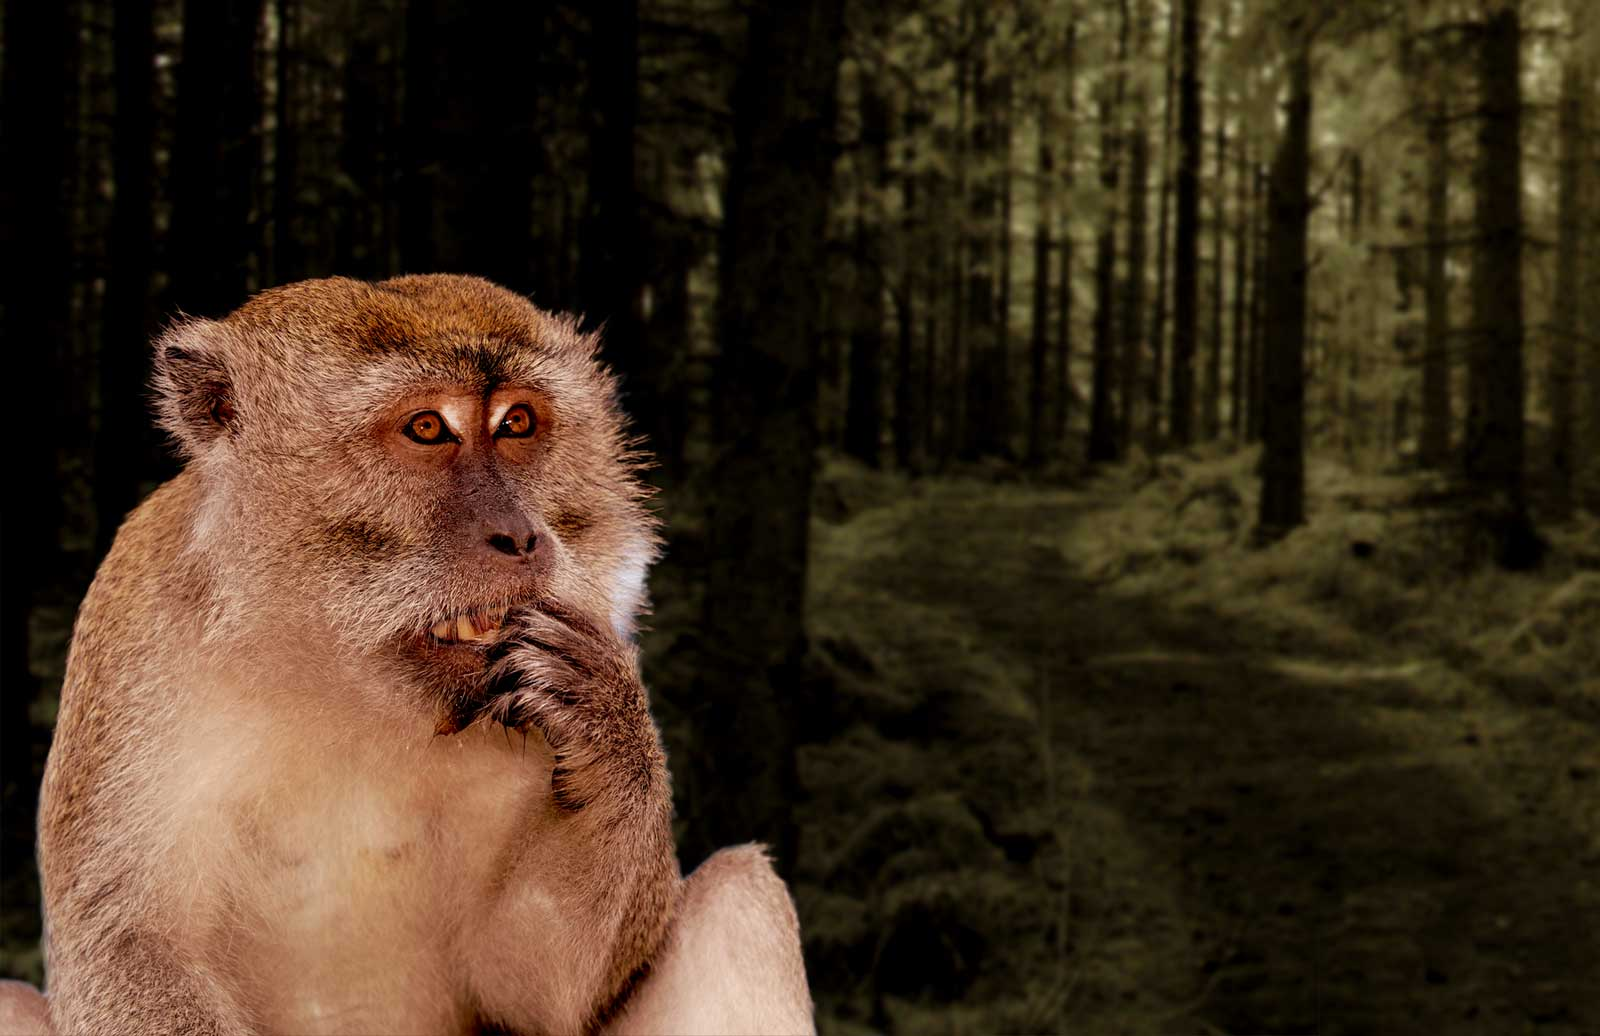
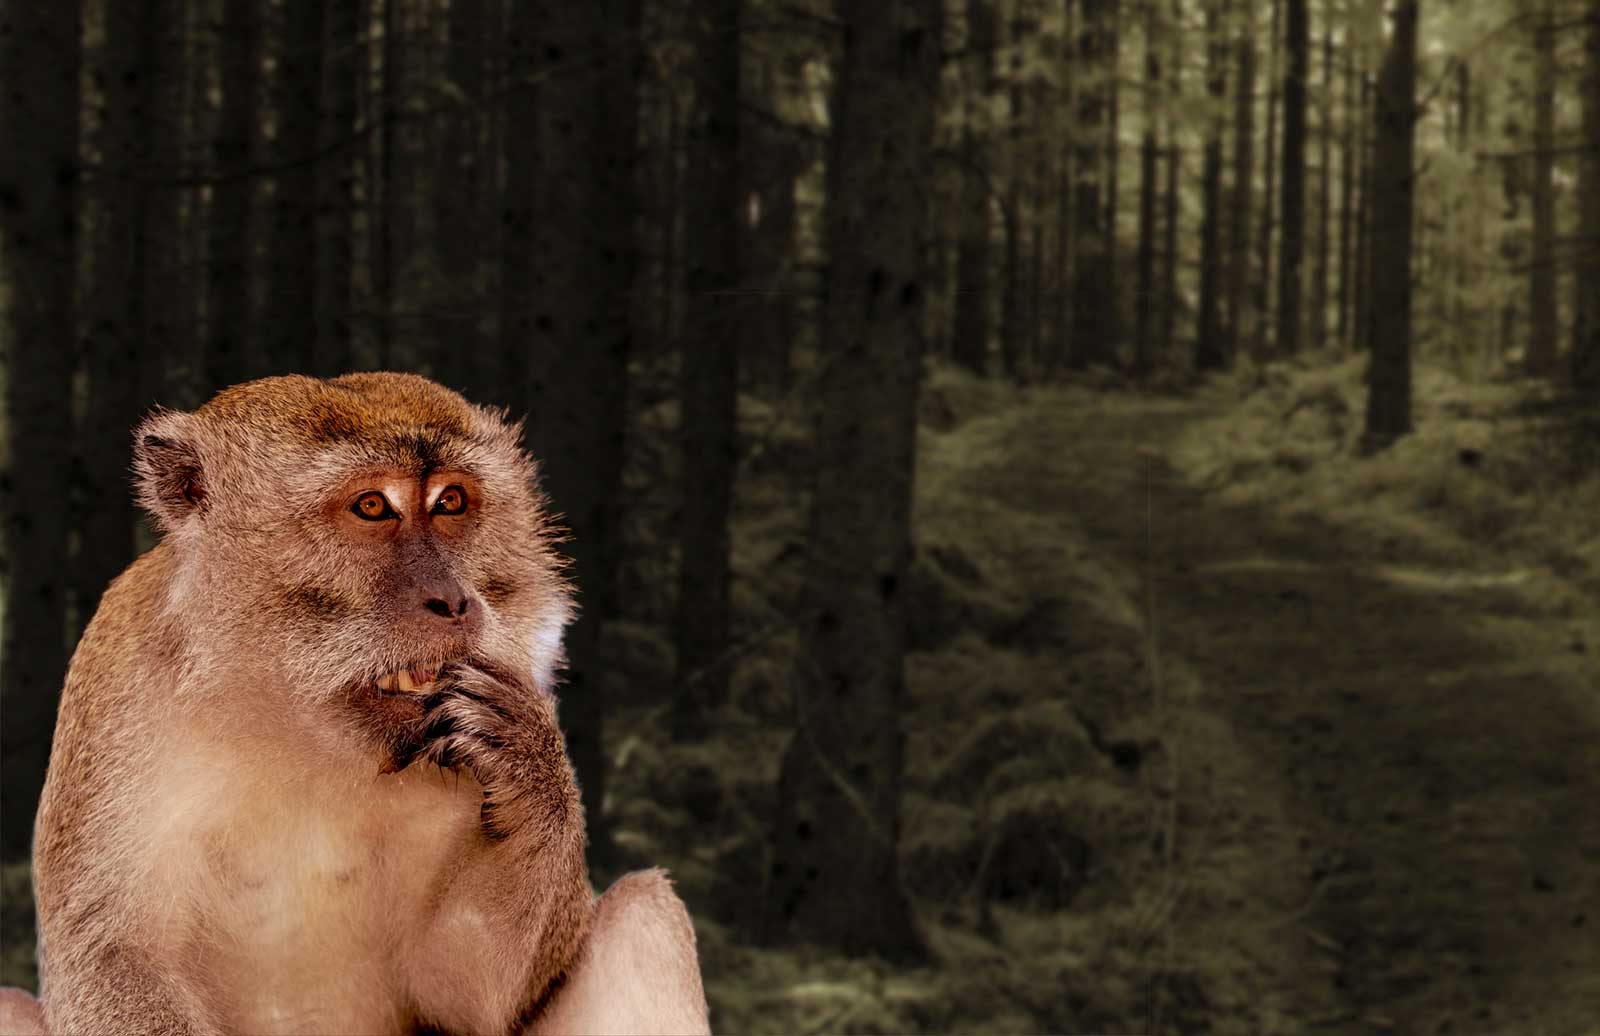
updated monkey photo with smaller monkey and added T&Cs

diff --git a/public_html/static/styles/sass/custom.scss b/public_html/static/styles/sass/custom.scss
@@ -163,7 +163,7 @@ body {
 
     &.error {
         background-image: url("/static/images/error-hires.jpg");
-        background-position-y: 40%;
+        background-position-y: 55%;
     }
 
     .scrolly {
